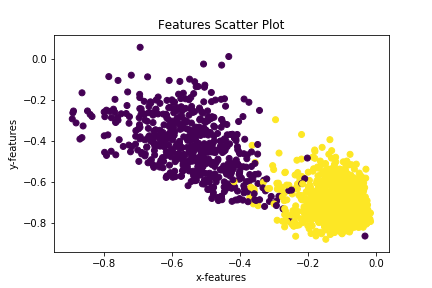
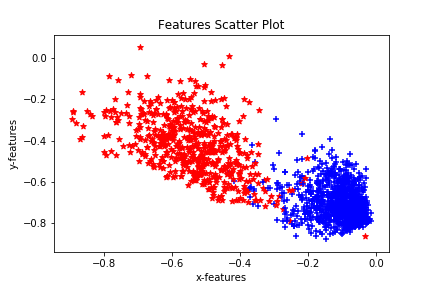
Fixed some plotting issues, just need to make the perceptron boundary plot properly.

diff --git a/HW1/code/solution.py b/HW1/code/solution.py
@@ -15,12 +15,12 @@ def show_images(data):
                 include them in your report
         """
         ### YOUR CODE HERE
-        print("Image 1")
-        #plt.imshow(data[0])
+        f, axarr = plt.subplots(1,2)
+        axarr[0].imshow(data[0])
         plt.imsave('image_1.png',data[0])
-        print("Image 2")
-        #plt.imshow(data[1])
+        axarr[1].imshow(data[1])
         plt.imsave('image_2.png',data[1])
+        plt.show()
         ### END YOUR CODE
 
 
@@ -37,7 +37,19 @@ def show_features(X, y, save=True):
                 in your report.
         """
         ### YOUR CODE HERE
-        plt.scatter(X[:,0],X[:,1],c=y)
+        xaxis = X[:,0]
+        yaxis = X[:,1]
+        colors = []
+        shapes = []
+        for j in y:
+            if j == -1:
+                colors.append('r')
+                shapes.append('*')
+            else:
+                colors.append('b')
+                shapes.append('+')
+        for i in range(len(y)):
+            plt.scatter(xaxis[i],yaxis[i], marker=shapes[i], color=colors[i])
         plt.title("Features Scatter Plot")
         plt.xlabel('x-features')
         plt.ylabel('y-features')
@@ -145,6 +157,7 @@ def show_result(X, y, W):
         plt.xlim(-1,0)
         plt.ylim(-1,0)
         plt.axis([-1,0,-1,0])
+        plt.title('Perceptron Fit')
         plt.scatter(X[:,0],decision_plot)
         show_features(X,y,False)
         plt.show()
